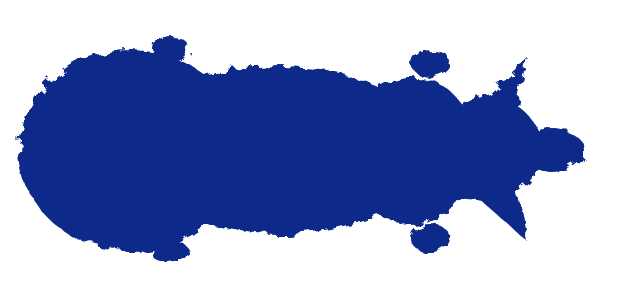
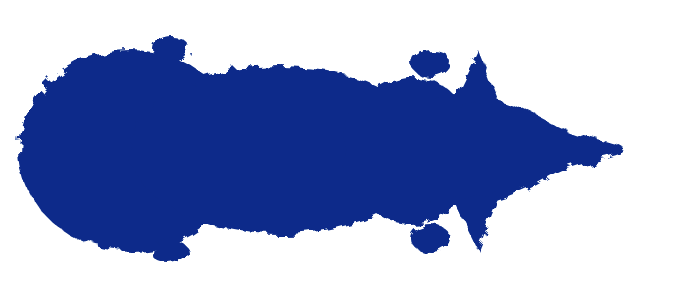
Brush-Video: Samojeden-Umriss mit Schnauze
Claude-Session: https://claude.ai/code/session_01M5BbKn789mRUNvyGA8Proq

diff --git a/video-projekte/src/Brush.tsx b/video-projekte/src/Brush.tsx
@@ -75,8 +75,8 @@ const Bird: React.FC<{ t: number }> = ({ t }) => {
 const RunningSamoyed: React.FC<{ t: number }> = ({ t }) => {
   const p = interpolate(t, [3.35, 4.3], [0, 1], { extrapolateLeft: "clamp", extrapolateRight: "clamp" });
   if (t < 3.35 || t > 4.3) return null;
-  const w = 150; // Breite im Hauskoordinatensystem (Fenster ist 180 breit)
-  const h = (w * 300) / 640;
+  const w = 160; // Breite im Hauskoordinatensystem (Fenster ist 180 breit)
+  const h = (w * 300) / 680;
   const x = SKY.x - w + p * (SKY.w + w);
   const y = SKY.y + SKY.h * 0.6 - h / 2;
   const g = t * 24;
